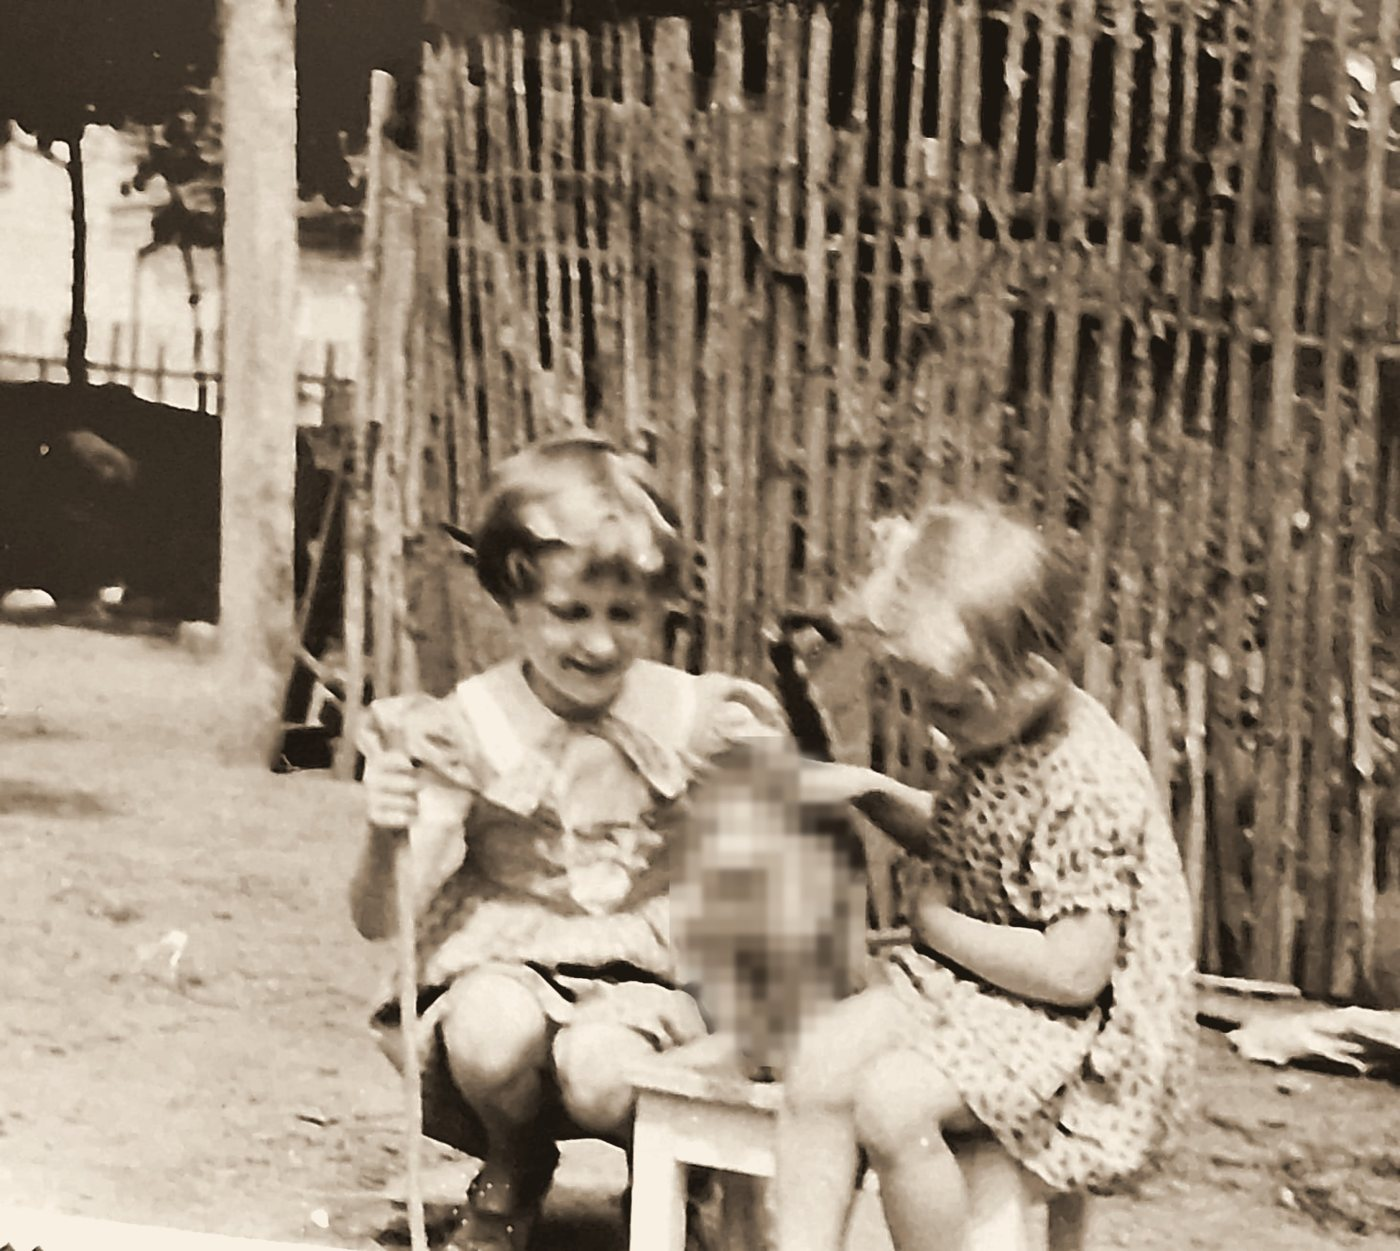
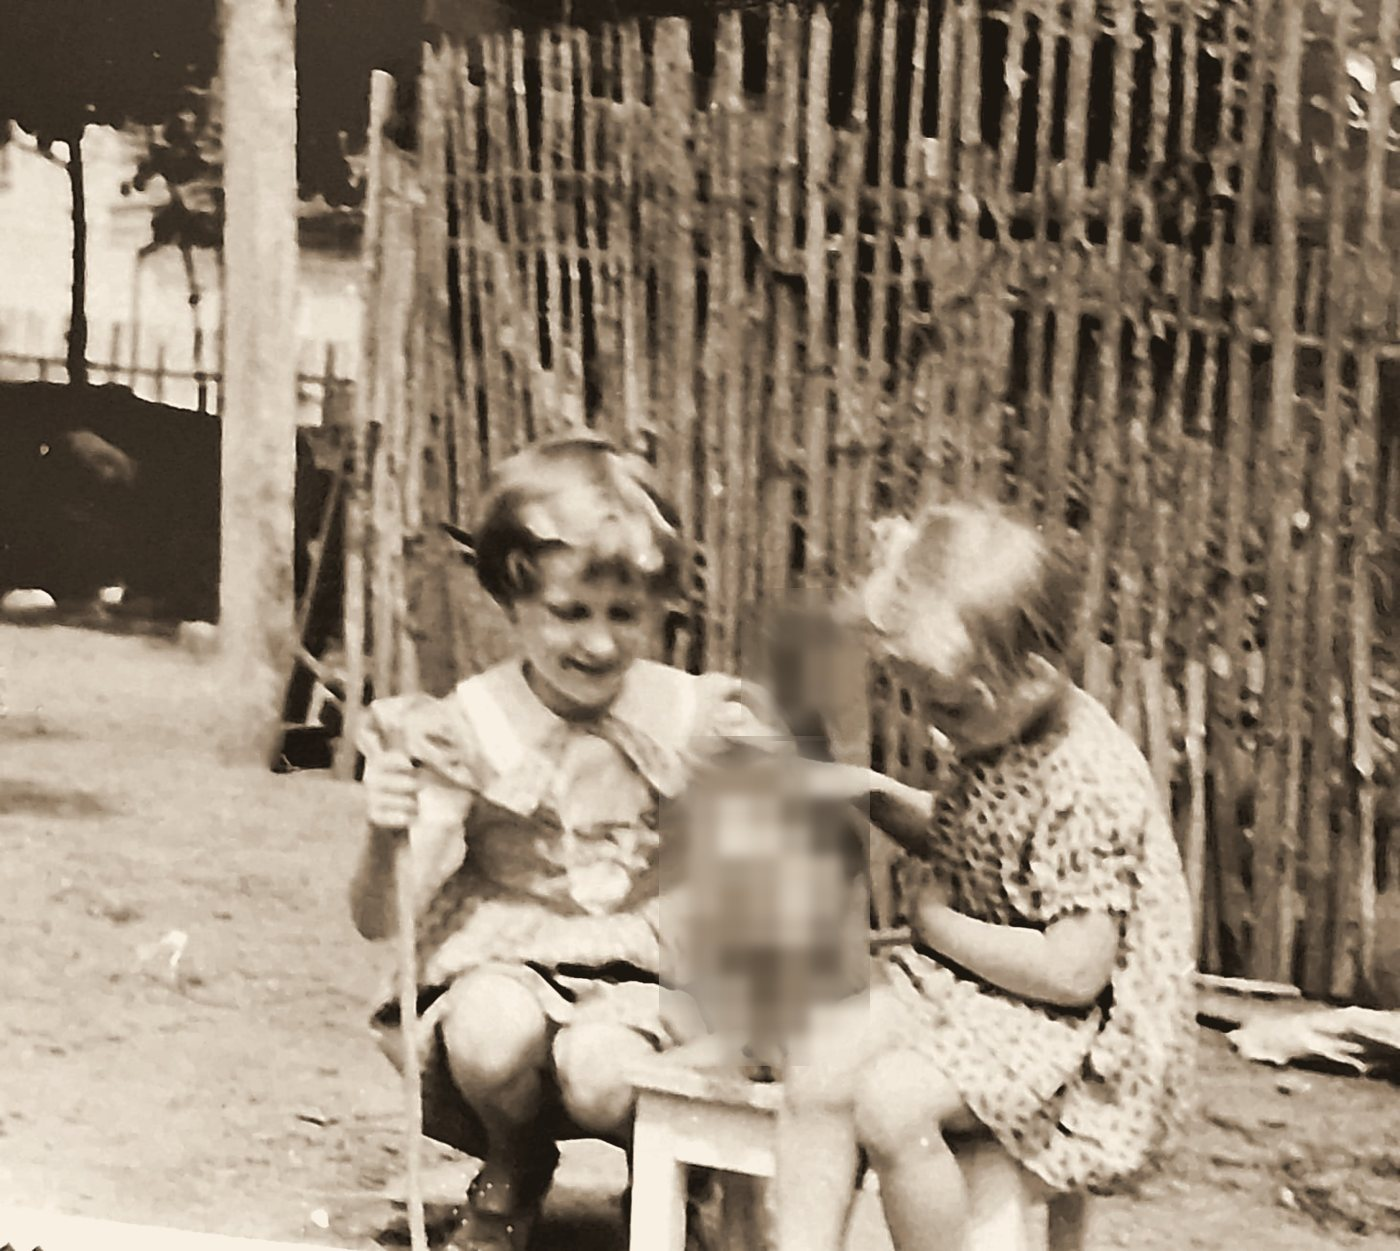
Kindheitsfoto: Katzenschwanz verpixelt
Claude-Session: https://claude.ai/code/session_01PNCWpEKcRzDvGhR6ozEooi

Changed region(s): [[0.4607, 0.4676, 0.645, 0.8106], [0.4607, 0.6859, 0.5529, 0.8417], [0.5529, 0.8106, 0.5836, 0.8417]]

diff --git a/index.html b/index.html
@@ -7,7 +7,7 @@
 <meta name="robots" content="noindex">
 <link rel="preconnect" href="https://fonts.googleapis.com">
 <link rel="stylesheet" href="https://fonts.googleapis.com/css2?family=Cinzel:wght@600;800&family=Oswald:wght@500;600&family=Source+Sans+3:wght@400;600;700&display=swap">
-<link rel="stylesheet" href="style.css?v=6">
+<link rel="stylesheet" href="style.css?v=7">
 <style>:root{padding-top:env(safe-area-inset-top,0px);padding-bottom:env(safe-area-inset-bottom,0px)}body{margin:0}img{max-width:100%}[hidden]{display:none!important}</style>
 </head>
 <body>
@@ -15,7 +15,7 @@
 <div id="live" class="live" aria-live="polite"><i></i><span>Verbinde …</span></div>
 <script src="https://unpkg.com/mqtt@5.10.1/dist/mqtt.min.js"></script>
 <script src="https://cdnjs.cloudflare.com/ajax/libs/qrcodejs/1.0.0/qrcode.min.js"></script>
-<script src="questions.js?v=6"></script>
-<script src="app.js?v=6"></script>
+<script src="questions.js?v=7"></script>
+<script src="app.js?v=7"></script>
 </body>
 </html>

diff --git a/questions.js b/questions.js
@@ -20,7 +20,7 @@ window.QUIZ = [
     q: "Was berührst du auf diesem Foto? (Du bist rechts im Bild.)",
     a: ["Einen Hund", "Eine Puppe", "Einen Teddybär", "Eine Katze"],
     c: 3,
-    img: "img/kindheit-raetsel.jpg",
+    img: "img/kindheit-raetsel.jpg?v=2",
     imgReveal: "img/kindheit-aufgeloest.jpg",
     note: "Nach der Auflösung erscheint das Foto ohne Verpixelung. Fragen, wie die Katze hieß und wer das andere Mädchen ist."
   },
